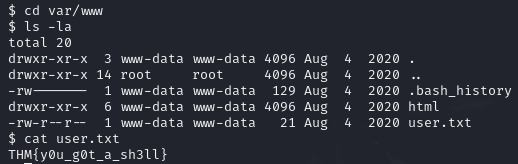
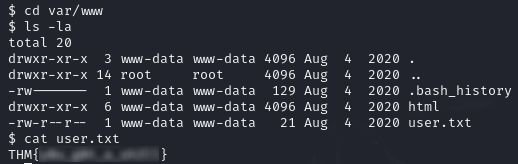
Removed answers from RootMe

Changed region(s): [[0.0618, 0.8841, 0.3089, 1.0]]

diff --git a/tryhackme/easy/RootMe.md b/tryhackme/easy/RootMe.md
@@ -1,4 +1,5 @@
 *A ctf for beginners, can you root me?*
+
 **Difficulty:** Easy
 ## Reconnaissance
 
@@ -33,15 +34,11 @@ The scan shows two open ports:
 
 The results give us enough to answer the first three questions.
 #### Scan the machine, how many ports are open?
-**Answer:** 2
-
-Since the expected answer matches the number of open ports we found by scanning the top 1000, there is no need to further scan the full range of ports.
+This can be found from the nmap scan. Since the expected answer matches the number of open ports we found by scanning the top 1000, there is no need to further scan the full range of ports.
 #### What version of Apache is running?
-**Answer:** 2.4.29
-
 This can be seen in the `http-server-header` field of the scan results of port 80.
 #### What service is running on port 22?
-**Answer:** ssh
+Refer to nmap scan to answer this question.
 #### Find directories on the web server using the GoBuster tool. 
 Now we need to enumerate the http service for any hidden directories using Gobuster. This will brute-force check using a wordlist of popular directory names. 
 
@@ -76,8 +73,6 @@ Finished
 ```
 
 #### What is the hidden directory?
-**Answer:** /panel/
-
 Two noteworthy directories are `/uploads` and `/panel`. Visiting `http://10.10.80.208/uploads/` returns a page that appears to be the location where files uploaded to the server are stored. Visiting `http://10.10.80.208/panel/` shows us a file upload form and seems to be the hidden directory we are looking for.
 
 ![](images/rootme-panel-directory.png)
@@ -155,8 +150,6 @@ After looking around the server a bit I found the `user.txt` flag in the `var/ww
 ## Privilege escalation
 *Now that we have a shell, let's escalate our privileges to root.*
 #### Search for files with SUID permission, which file is weird?
-**Answer:** `/usr/bin/python`
-
 With the below command we can search for files that are owned by root and have SUID permissions.
 
 **Command:** `find / -user root -perm /4000 2>/dev/null
@@ -173,7 +166,5 @@ The command shown in GFTOBins will invoke `/bin/sh` with the `-p` flag, preservi
 
 ![](images/rootme-escalate.png)
 #### root.txt
-**Answer:** THM{pr1v1l3g3_3sc4l4t10n}
-
 We can now access the root directory and find the root flag!
 ![](rootme-root-flag.png)
